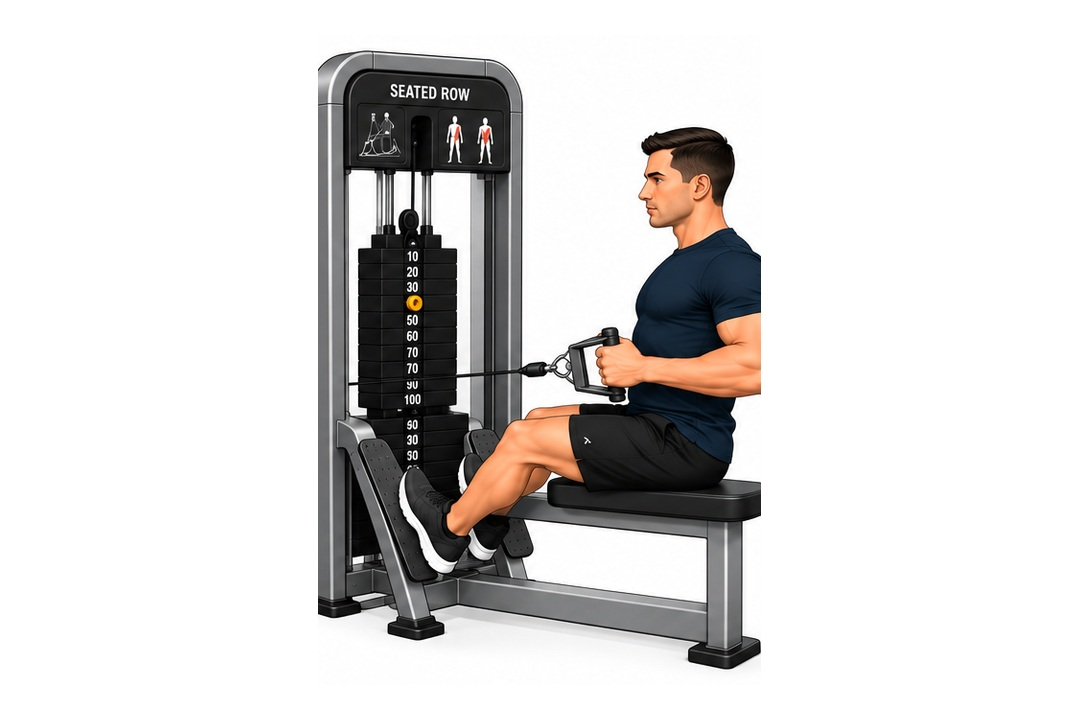
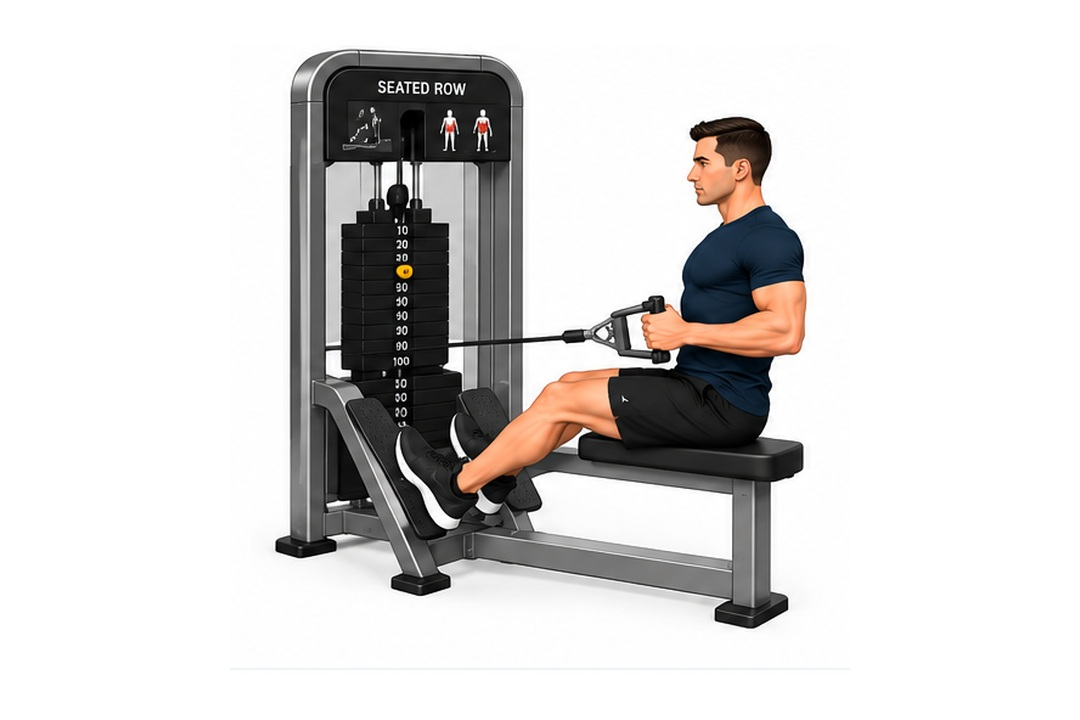
Finalize hinge row and back extension artwork

Changed region(s): [[0.2444, 0.0611, 0.7639, 0.9472]]

diff --git a/service-worker.js b/service-worker.js
@@ -1,4 +1,4 @@
-const CACHE='gym-tracker-v6-9-artwork-test-11';
+const CACHE='gym-tracker-v6-9-artwork-test-12';
 const STATIC=["./manifest.webmanifest", "./icons/icon-192.png", "./icons/icon-512.png", "./assets/bike.jpg", "./assets/chest.jpg", "./assets/cross.jpg", "./assets/dbrow.jpg", "./assets/facepull.jpg", "./assets/foam.jpg", "./assets/glutebridge.jpg", "./assets/hinge.jpg", "./assets/hipabd.jpg", "./assets/hipext.jpg", "./assets/kneeext.jpg", "./assets/lat.jpg", "./assets/legcurl.jpg", "./assets/legpress.jpg", "./assets/pallof.jpg", "./assets/seatedrow.jpg", "./assets/shrug.jpg", "./assets/backextension45.jpg", "./assets/machine-hip-thrust-lower-back.jpg", "./assets/treadmill.jpg", "./assets/rower.jpg", "./assets/legpress-new.jpg", "./assets/facepull-new.jpg", "./assets/dbrow-new.jpg", "./assets/chest-new.jpg", "./assets/lat-new.jpg", "./assets/pallof-new.jpg", "./assets/hipabd-new.jpg", "./assets/hipext-new.jpg", "./assets/shrug-new.jpg", "./assets/glutebridge-new.jpg", "./assets/kneeext-new.jpg", "./assets/legcurl-new.jpg", "./assets/hinge-new.jpg", "./assets/seatedrow-new.jpg", "./assets/backextension45-new.jpg"];
 
 self.addEventListener('install', event => {
